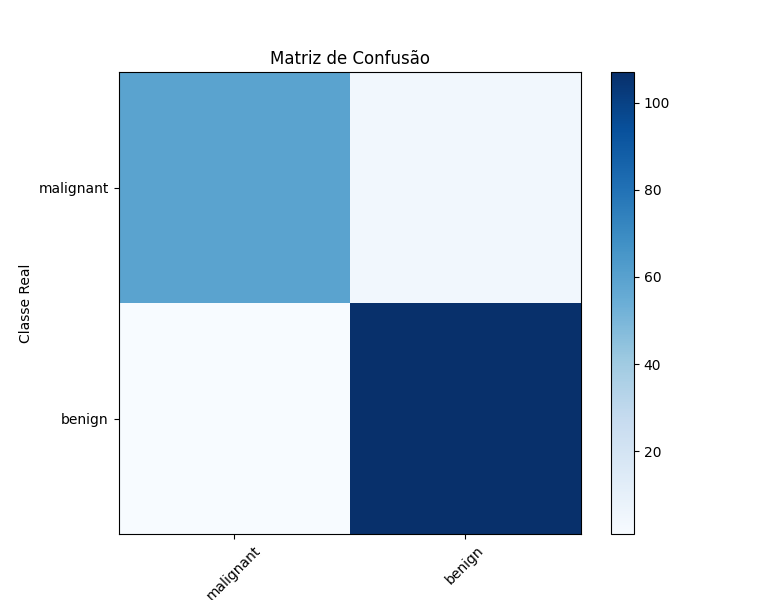
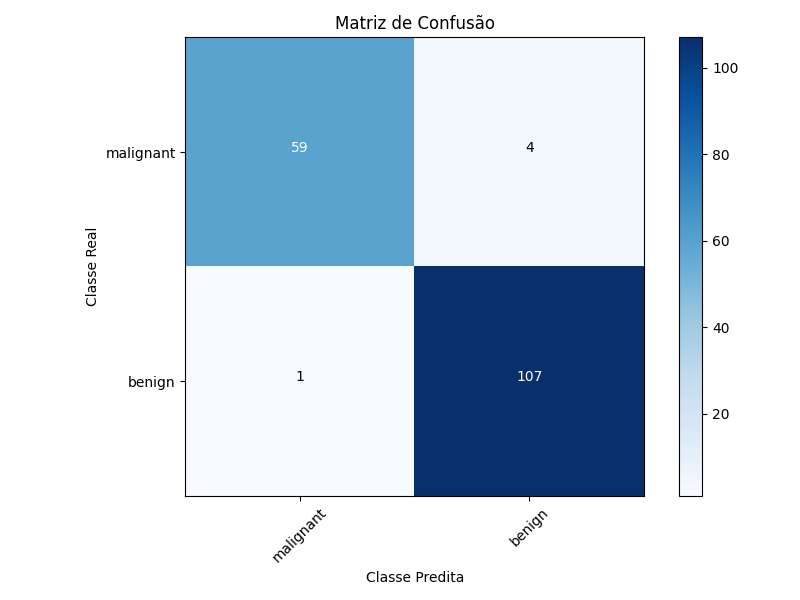
final commit the return

diff --git a/evaluate_model.py b/evaluate_model.py
@@ -19,7 +19,7 @@ y_pred = model.predict(X_test)
 y_proba = model.predict_proba(X_test)[:, 1]
 
 cm = confusion_matrix(y_test, y_pred)
-plt.figure(figsize=(6, 6))
+plt.figure(figsize=(8, 6))
 plt.imshow(cm, interpolation='nearest', cmap=plt.cm.Blues)
 plt.title('Matriz de Confusão')
 plt.colorbar()
@@ -27,8 +27,22 @@ classes = data.target_names
 tick_marks = np.arange(len(classes))
 plt.xticks(tick_marks, classes, rotation=45)
 plt.yticks(tick_marks, classes)
+
+# Anotar valores na matriz de confusão
+thresh = cm.max() / 2.
+for i, j in np.ndindex(cm.shape):
+    plt.text(j, i, f'{cm[i, j]}', horizontalalignment="center",
+             color="white" if cm[i, j] > thresh else "black")
+
 plt.ylabel('Classe Real')
 plt.xlabel('Classe Predita')
+plt.tight_layout()
+plt.show()
+
+# Printar a matriz de confusão
+print("Matriz de Confusão:")
+print(cm)
+
 
 print("Matriz de Confusão:")
 print(cm)
